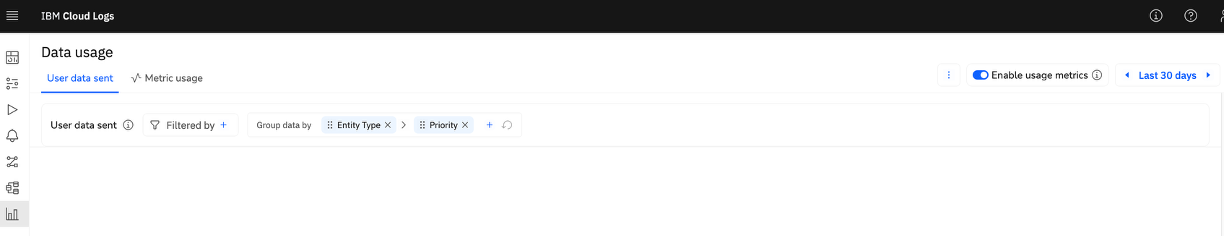
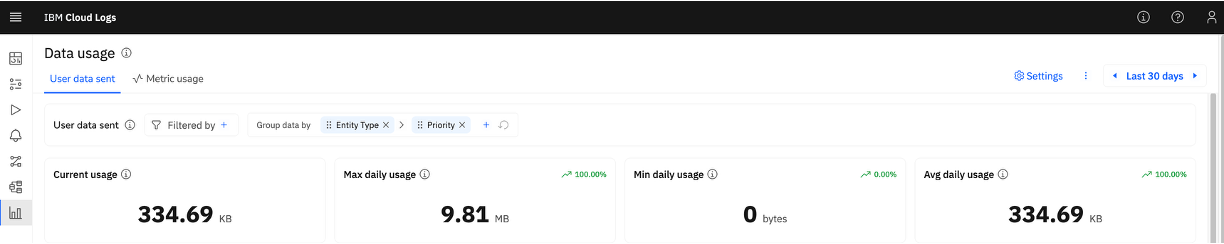
Update: 27-05-2026

diff --git a/data-usage-detailed-reports.md b/data-usage-detailed-reports.md
@@ -17,7 +17,7 @@ subcollection: cloud-logs
 # Generating detailed usage reports
 {: #data-usage-detailed-reports}
 
-In {{site.data.keyword.logs_full_notm}}, you can export, as csv, a `Data Usage Report` that provides an overview of your instance's data usage for the current month, the previous 30 days, or the previous 90 days.
+In {{site.data.keyword.logs_full_notm}}, you can export a `Data Usage Report` as CSV, TSV or JSON. The report tprovides an overview of your instance's data usage for the current month, the previous 30 days, or the previous 90 days.
 {: shortdesc}
 
 
@@ -54,13 +54,19 @@ Complete the following steps to export the Data Usage Report as a CSV file:
 
     The *Data Usage* page opens. 
 
-2. Select **Export as CSV**.
+4. Choose the export format.
 
-3. Select **Detailed usage report** for the *Data Usage Overview Report type*.
+    Valid values are: `CSV`,`TSV`, and `JSON`.
 
-4. Select the time range.
+    Use `CSV`, and `TSV` to manage data through spreadsheets.
 
-5. Click **EXPORT**.
+    Use `JSON` to manage data through automated integrations.
+
+5. Select **Detailed usage report** for the *Data Usage Overview Report type*.
+
+6. Select the time range.
+
+7. Click **EXPORT**.
 
 ## Exporting a detailed data usage report using API
 {: #data-usage-reports-api}

diff --git a/data-usage-reports.md b/data-usage-reports.md
@@ -59,7 +59,13 @@ Complete the following steps to export the Data Usage Report as a CSV file:
 
     The *Data Usage* page opens. 
 
-4. Select **Export as CSV**.
+4. Choose the export format.
+
+    Valid values are: `CSV`,`TSV`, and `JSON`.
+
+    Use `CSV`, and `TSV` to manage data through spreadsheets.
+
+    Use `JSON` to manage data through automated integrations.
 
 5. Select **Data usage overview report** for the *Data Usage Overview Report type*.
 

diff --git a/data-usage-enable-metrics.md b/data-usage-enable-metrics.md
@@ -60,7 +60,9 @@ Complete the following steps to enable collection of the Data Usage metric `cx_d
 
     ![Data Usage](/images/data-usage.png "Data Usage"){: caption="Data Usage" caption-side="bottom"}
 
-3. Switch on the toggle **Enable usage metrics**.
+3. Select **Settings**. The Data usage settings page opens.
+
+4. In the *Data Usage visibility > Enable metrics* section, switch on the toggle **Enable metrics**.
 
     ![Enable Data Usage](/images/data-usage-enable.png "Enable Data Usage"){: caption="Enable Data Usage" caption-side="bottom"}
 

diff --git a/data-usage-r114.md b/data-usage-r114.md
@@ -32,7 +32,7 @@ In {{site.data.keyword.logs_full_notm}}, you can get detailed insights into your
 {: #data-usage-launch}
 
 Through the *Data Usage page*, you can view information related to:
-- Ingested logs and metrics through the *User data sent* tab. For more information, see [Analyzing user data sent](/docs/cloud-logs?topic=cloud-logs-data-usage-analyzer).
+- Ingested logs and metrics through the *User data sent* tab. For more information, see [Analyzing user data ingested](/docs/cloud-logs?topic=cloud-logs-data-usage-analyzer).
 - Metrics usage through the *Metrics Usage* tab. For more information, see [Analyzing metrics usage](/docs/cloud-logs?topic=cloud-logs-metrics-agent-usage-analyzer).
 
 For example, you can use the information in the *Data Usage* page to: